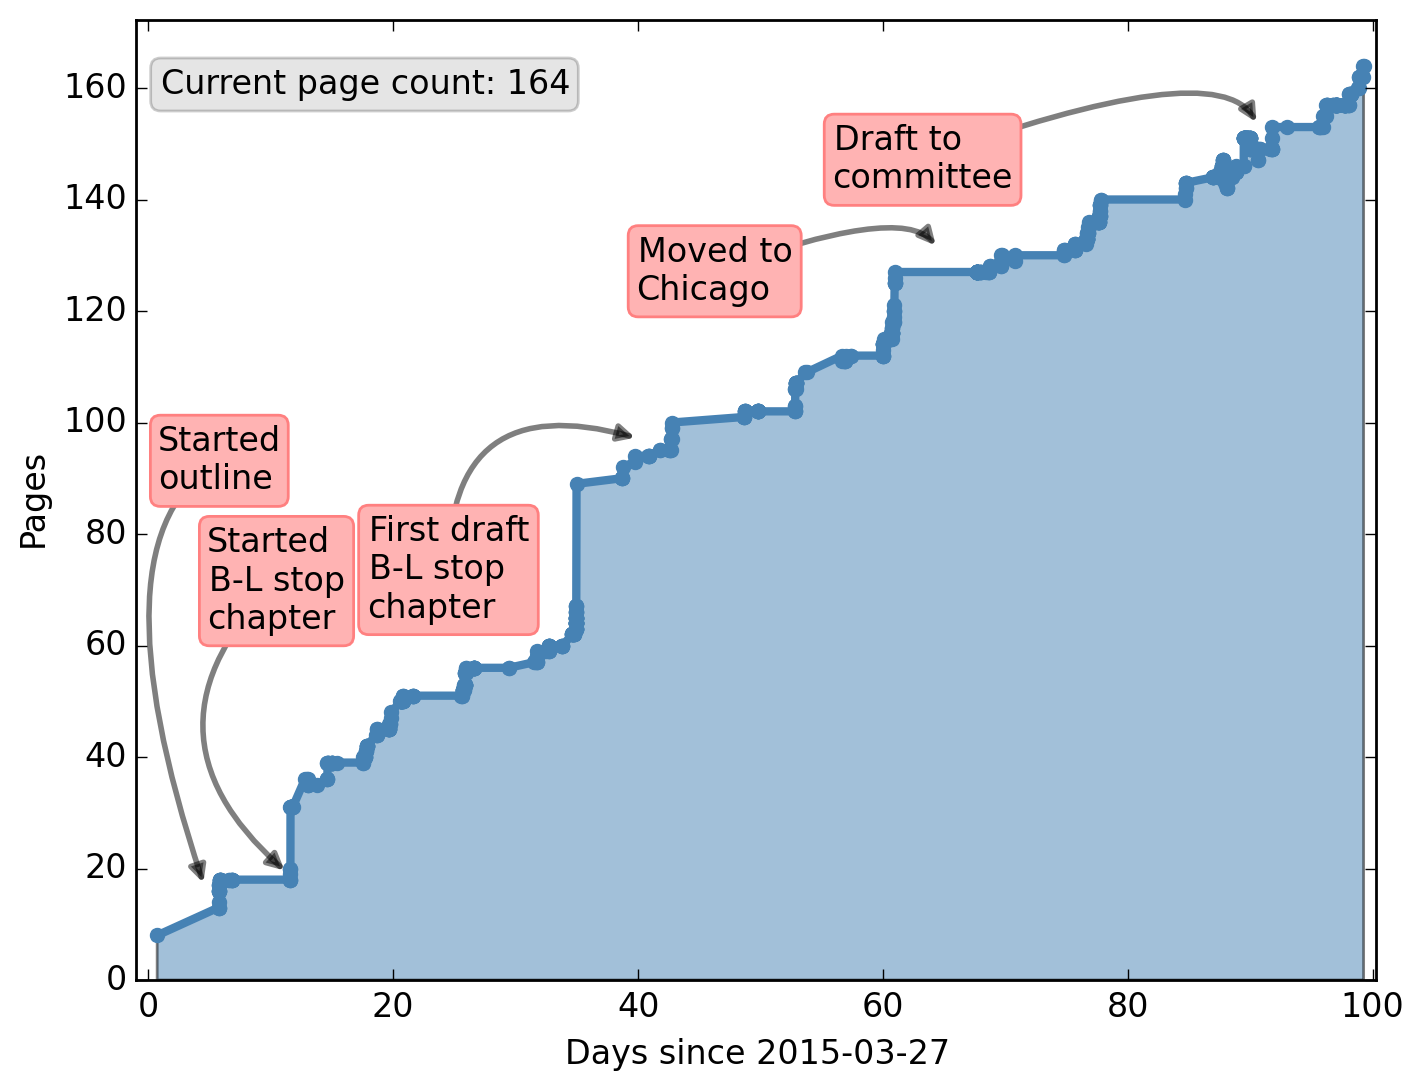
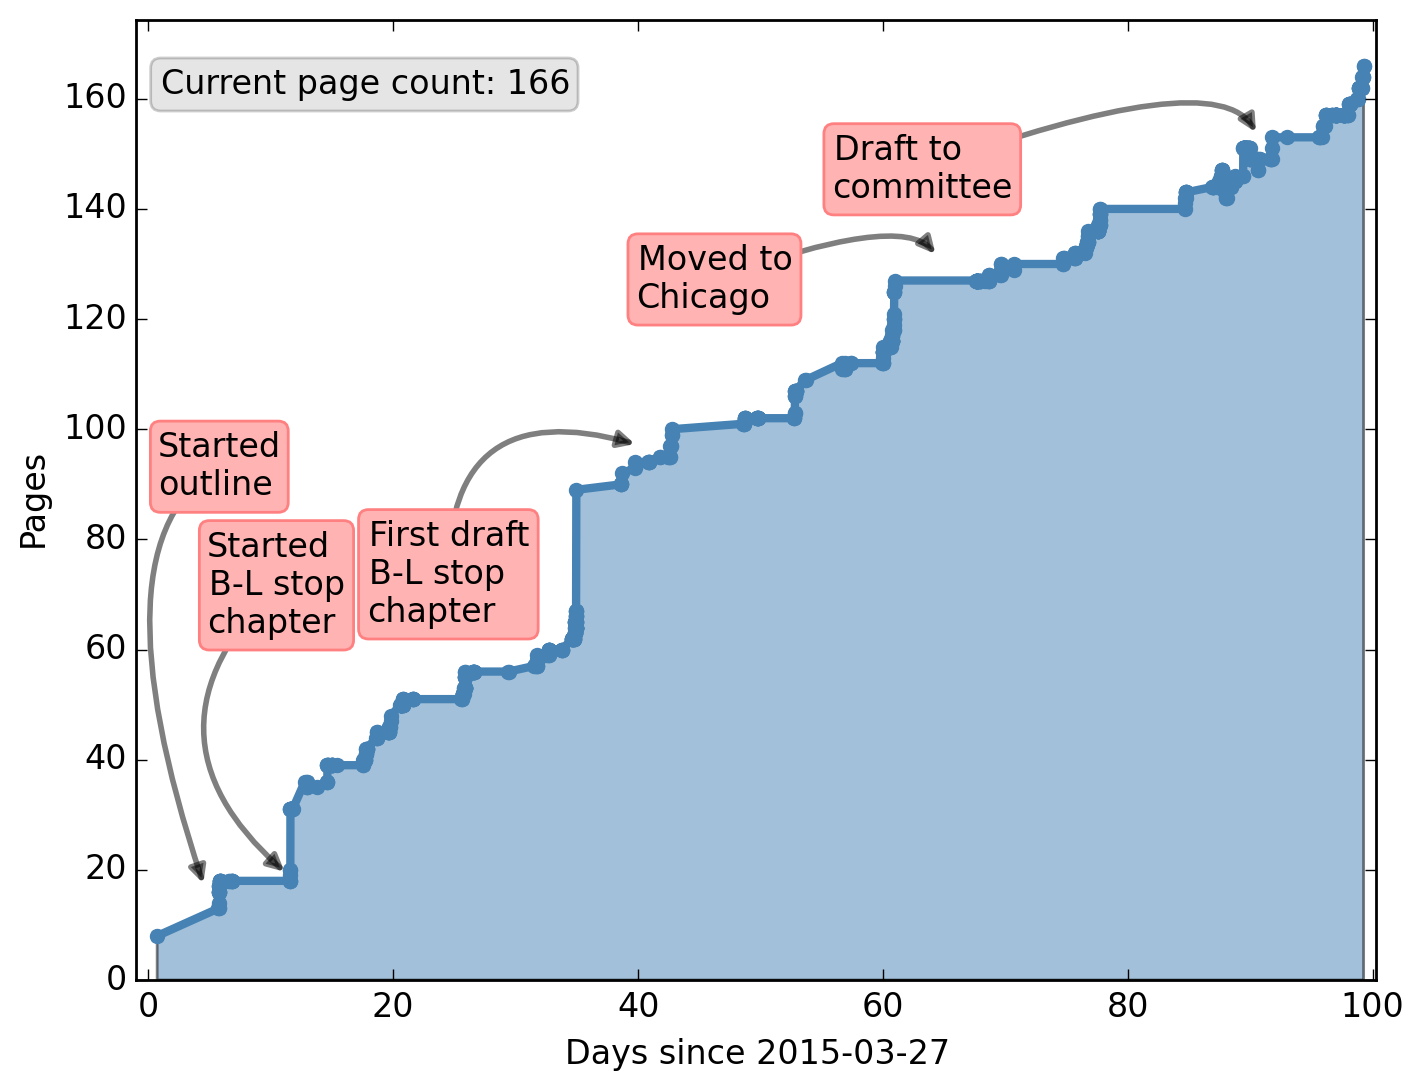
trigger

diff --git a/tex/lhc.tex b/tex/lhc.tex
@@ -495,8 +495,6 @@ as an tungsten absorption material.
 \subsection{Muon spectrometer} 
 \label{sec:ms}
 
-{\color{red} Introduce the MS and its purpose}
-
 \begin{figure}[ht]
   \centering{
     \includegraphics[width=\textwidth]{figs/lhc/ms_schematic.jpg}
@@ -508,13 +506,88 @@ as an tungsten absorption material.
   \label{fig:ms_cartoon}
 \end{figure}
 
+The muon spectrometer (MS) comprise the four sub-detectors of the
+\atlas\ experiment furthest from the interaction point, and is shown in
+Figure~\ref{fig:ms_cartoon}.
+Muons are minimum ionizing particle, and if they have sufficient energy, are
+able to pass through the calorimetry system unstopped.
+The MS has coverage up to $|\eta| = 2.7$, and is designed to make precision
+tracking measurements of the muon trajectory and momentum.
+A strong magnetic field is generated by eight large toroidal magnets in the
+barrel, and two endcap toroid systems.
+The magnetic field is situated such that the muons bend in the $\eta$
+direction.
+The four sub-detectors of the MS are
+\begin{description}
+  \item[Monitored drift tubes (MDTs):] 
+    Approximately 370,000 drift tubes, each with diameter of 30~mm, and made of
+    aluminum with a wire in the middle.
+    The gas in the tube is ionized in the presence of a muon, and attracted to
+    the wire in the center of the tube, leading to a measurable signal, which
+    is read out by the electronics.
+    The MDTs span the full range of the MS system ($|\eta| < 2.7$).
+  \item[Cathode strip chambers (CSCs):] 
+    Chambers, consisting anode wires and cathode strips.
+    As a muon passes through a CSC, the gas within the chamber is ionized, and
+    drifts toward the cathode strips, where the signal is read out.
+    The relative size of the signal on adjacent strips is used to determine the
+    location of the hit.
+    The CSCs are located closer to the interaction point than the MDTs, in the
+    region $2.0 < |\eta| < 2.7$.
+  \item[Resistive plate chambers (RPCs):] 
+    Consist of two resistive plates with a small gap, filled with gas.
+    The gas is ionized in the presence of a muon, and drifts toward one of the
+    plates.
+    This results in a fast signature that can be used for triggering.
+  \item[Thin gap chambers (TGCs):] 
+    A multiple wire proportional counter used for triggering in the endcap
+    region.
+\end{description}
 
 %% ------------------------------------------------------------------------------
 \FloatBarrier
-\section{Triggering system}
+\section{Trigger system}
 
-{\color{red} Why/how we trigger. What sort of rates we get. What is the
-rejection rate at each trigger level...}
+In 2012, the LHC delivered proton collisions every 50~ns, corresponding to
+20~MHz.
+Not only are most of these collisions uninteresting, \atlas\ does not have
+the bandwidth or computing resources to read out every event, and reconstruct
+them for offline use.
+The trigger system uses a three step process to select only potentially
+interesting events to reduce the data rate to something manageable.
+
+The \atlas\ trigger system includes a level 1 (L1) trigger, implemented in
+hardware, which is required to be fast.
+Only information from the calorimetry system and the MC is used in the L1
+trigger since tracking takes too long to process.
+The second (level 2) and third (event filter) stages are referred to,
+collectively, as the high level trigger (HLT), and are implemented in computer
+farms, away from the \atlas\ detector.
+These still have strict latency requirements, but they are allowed to take
+more time than L1.
+The level 2 stage includes the information in a region of interest (ROI)
+produced by the L1 trigger, and the event filter is able to use the full
+detector information, and run full event reconstruction.
+The specifications of each trigger level is given in
+Table~\ref{tab:trigger_specs}.
+
+\begin{table}[ht]
+  \caption{
+    Specifications of the three levels of the \atlas\ trigger system.
+  }
+  \label{tab:trigger_specs}
+  \centering{
+    \begin{tabular}{l|ccc|c}
+      \toprule
+      System & Input & Output & Reduction & Latency \\
+      \midrule
+      Level 1      & 20~MHz & 70~kHz & 300x & 2.5~\us \\[1ex]
+      Level 2      & 70~kHz & 5~kHz  & 15x  & 75~ms   \\[1ex]
+      Event filter & 5~kHz  & 700~Hz & 7x   & 1~s     \\
+      \bottomrule
+    \end{tabular}
+  }
+\end{table}
 
 %% ------------------------------------------------------------------------------
 \FloatBarrier

diff --git a/PageNumbers.md b/PageNumbers.md
@@ -731,3 +731,7 @@ Fri Jul 3 22:29:46 EDT 2015 , 162
 Fri Jul 3 23:15:55 EDT 2015 , 162
 Fri Jul 3 23:53:07 EDT 2015 , 164
 Sat Jul 4 00:58:22 EDT 2015 , 164
+Sat Jul 4 01:25:26 EDT 2015 , 164
+Sat Jul 4 01:39:39 EDT 2015 , 164
+Sat Jul 4 02:07:34 EDT 2015 , 166
+Sat Jul 4 02:08:52 EDT 2015 , 166
